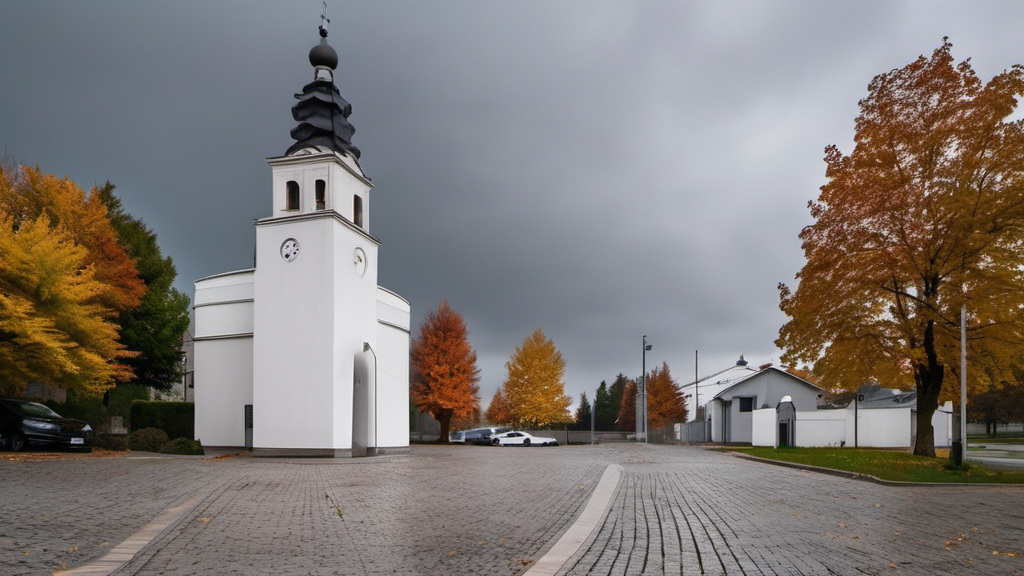
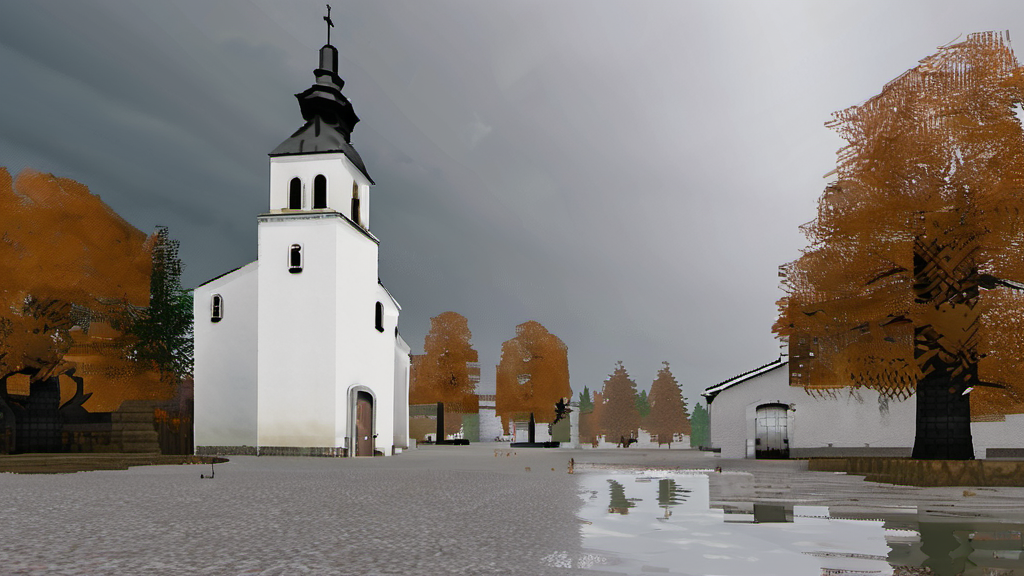
Switch Linia look-dev renders to PS2 style

diff --git a/README.md b/README.md
@@ -35,17 +35,19 @@ dopiero potem piszemy systemy.
 
 Wieś w grze jest fikcyjna, ale wygląd bierzemy z prawdziwej Lini w powiecie
 wejherowskim: biały kościół z wieżą i zegarem, kostka na placu, kute płoty,
-betonowe słupy z kablami, zarastająca linia kolejowa, mgła nad polami. Te
-obrazki to look-dev, nie screenshoty z gry.
+betonowe słupy z kablami, zarastająca linia kolejowa, mgła nad polami.
+Wszystko renderowane w stylu PS2: mało poligonów, niskiej rozdzielczości
+tekstury, płaskie światło, dithering i ząbki na krawędziach. To look-dev,
+nie screenshoty z gry.
 
 ![Plac przy kościele](art/ref/linia/square_day.png)
-*Plac. Biały kościół, kostka, mokry listopad.*
+*Plac w dzień. Biały kościół, kostka, mokry listopad.*
 
 ![Droga przez wieś](art/ref/linia/street_fog.png)
-*Droga. Asfalt z łatami, słupy i czerwony dach.*
+*Droga o zmierzchu. Asfalt z łatami, słupy i czerwony dach.*
 
-![Zarastająca linia kolejowa](art/ref/linia/railway.png)
-*Tor za wsią. Nikt nim nie jeździ od lat.*
+![Plac w nocnej mgle](art/ref/linia/dusk.png)
+*Plac wieczorem. Światła ubywa, mgła wchodzi między domy.*
 
 ## Jak to powstaje
 
